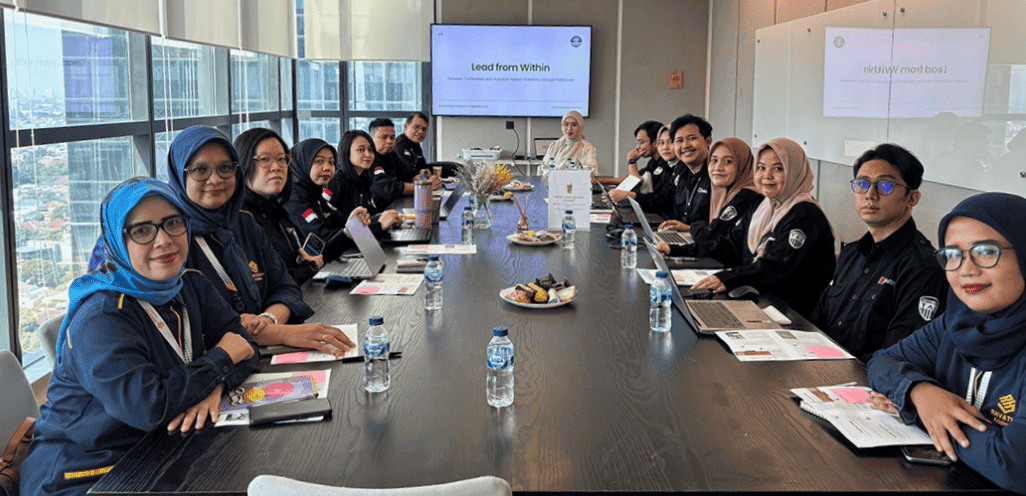
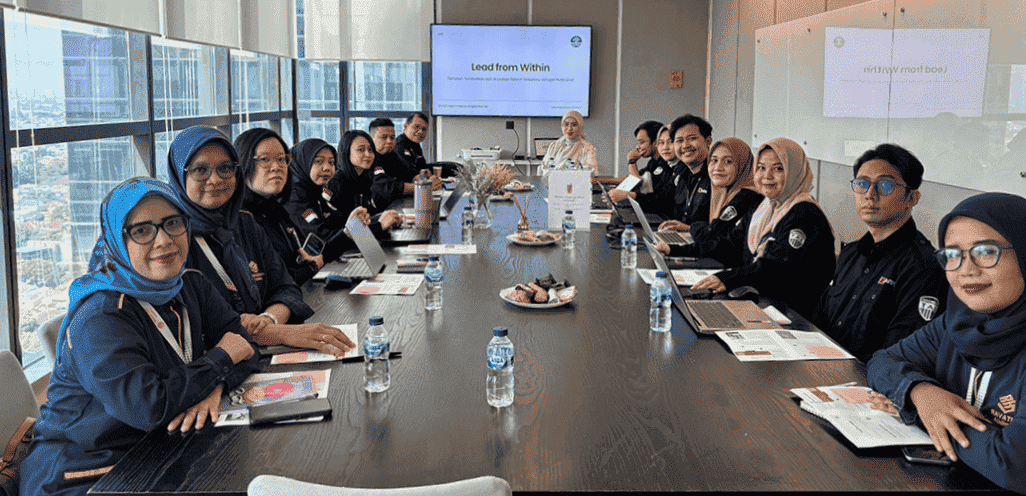
optimization landing page

diff --git a/src/pages/LandingPage.jsx b/src/pages/LandingPage.jsx
@@ -159,7 +159,7 @@ export default function LandingPage() {
 
       <div className=" bg-yellow-500 text-white">
         <Container>
-          <div className=" mx-20 py-10 md:flex items-start gap-20">
+          <div className=" grid grid-cols-1 md:grid-cols-2 gap-10 py-8 px-4">
             <div>
               <h6 className=" md:text-5xl text-3xl font-bold mb-5">
                 Pelatihan <span className=" text-secondary">pajak praktis</span>{" "}
@@ -203,10 +203,10 @@ export default function LandingPage() {
                 </div>
               </div>
 
-              <div className=" mt-7 md:flex gap-4 md:text-xl font-semibold">
+              <div className=" mt-7 grid grid-cols-2 gap-4 md:text-xl font-semibold">
                 <button
                   onClick={handleClickToProduct}
-                  className=" md:mb-0 mb-3 cursor-pointer hover:bg-blue-950 hover:border-blue-950 hover:text-yellow-400 transition flex gap-2 items-center border-2 rounded-xl py-3 px-4"
+                  className=" cursor-pointer hover:bg-blue-950 hover:border-blue-950 hover:text-yellow-400 transition flex gap-2 items-center border-2 rounded-xl py-3 px-4"
                 >
                   Lihat Program <AiOutlineArrowDown size={25} />
                 </button>
